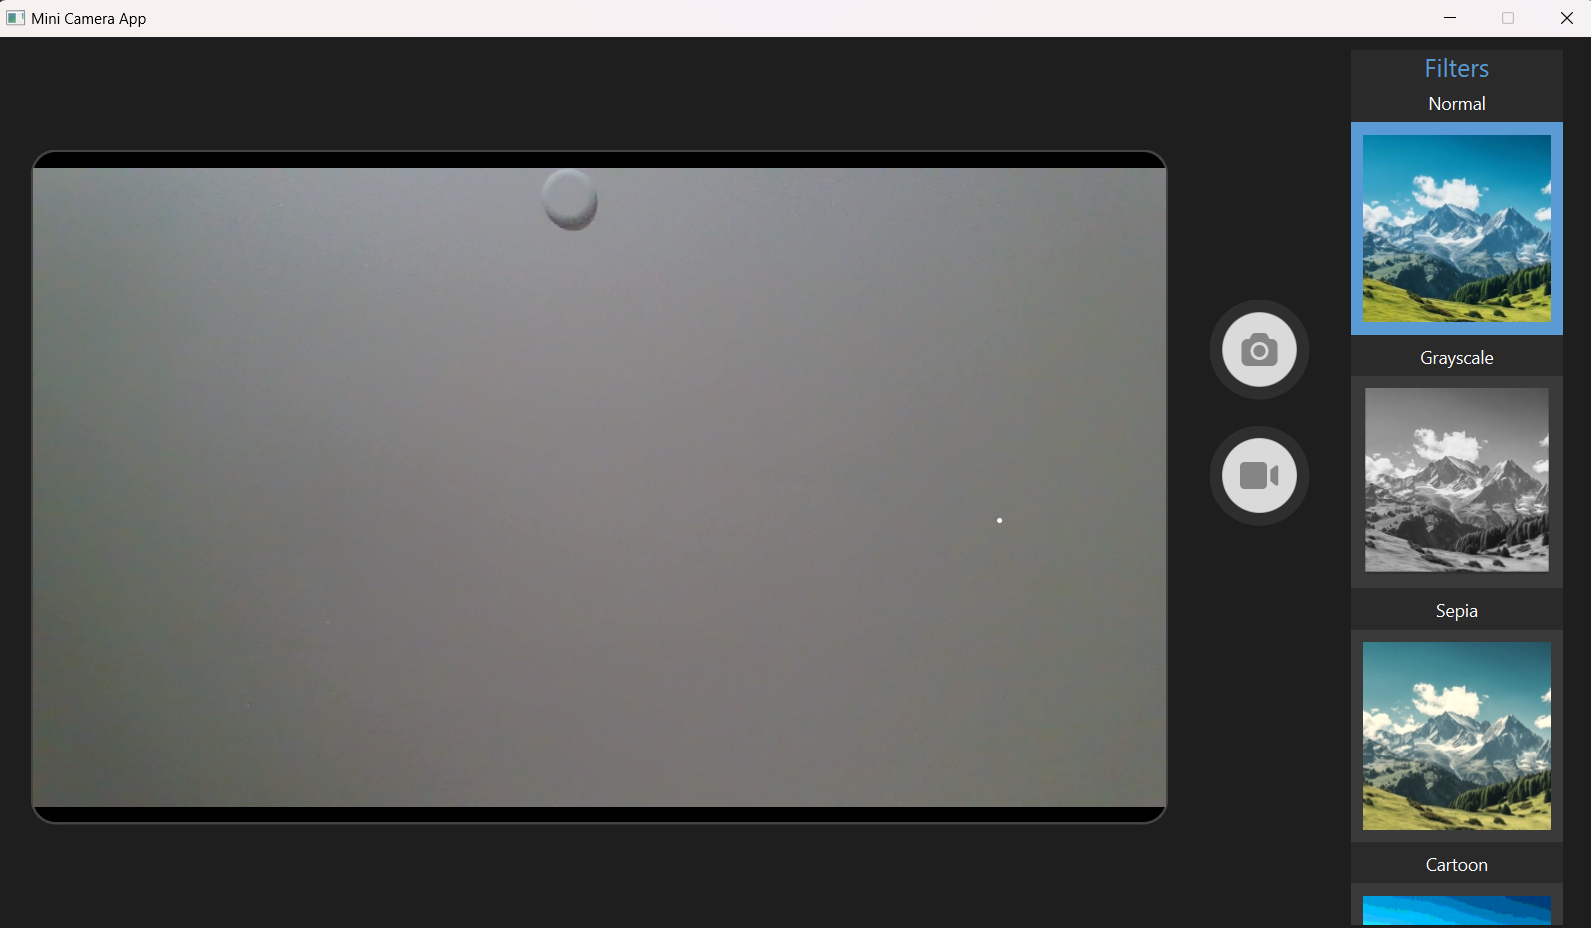
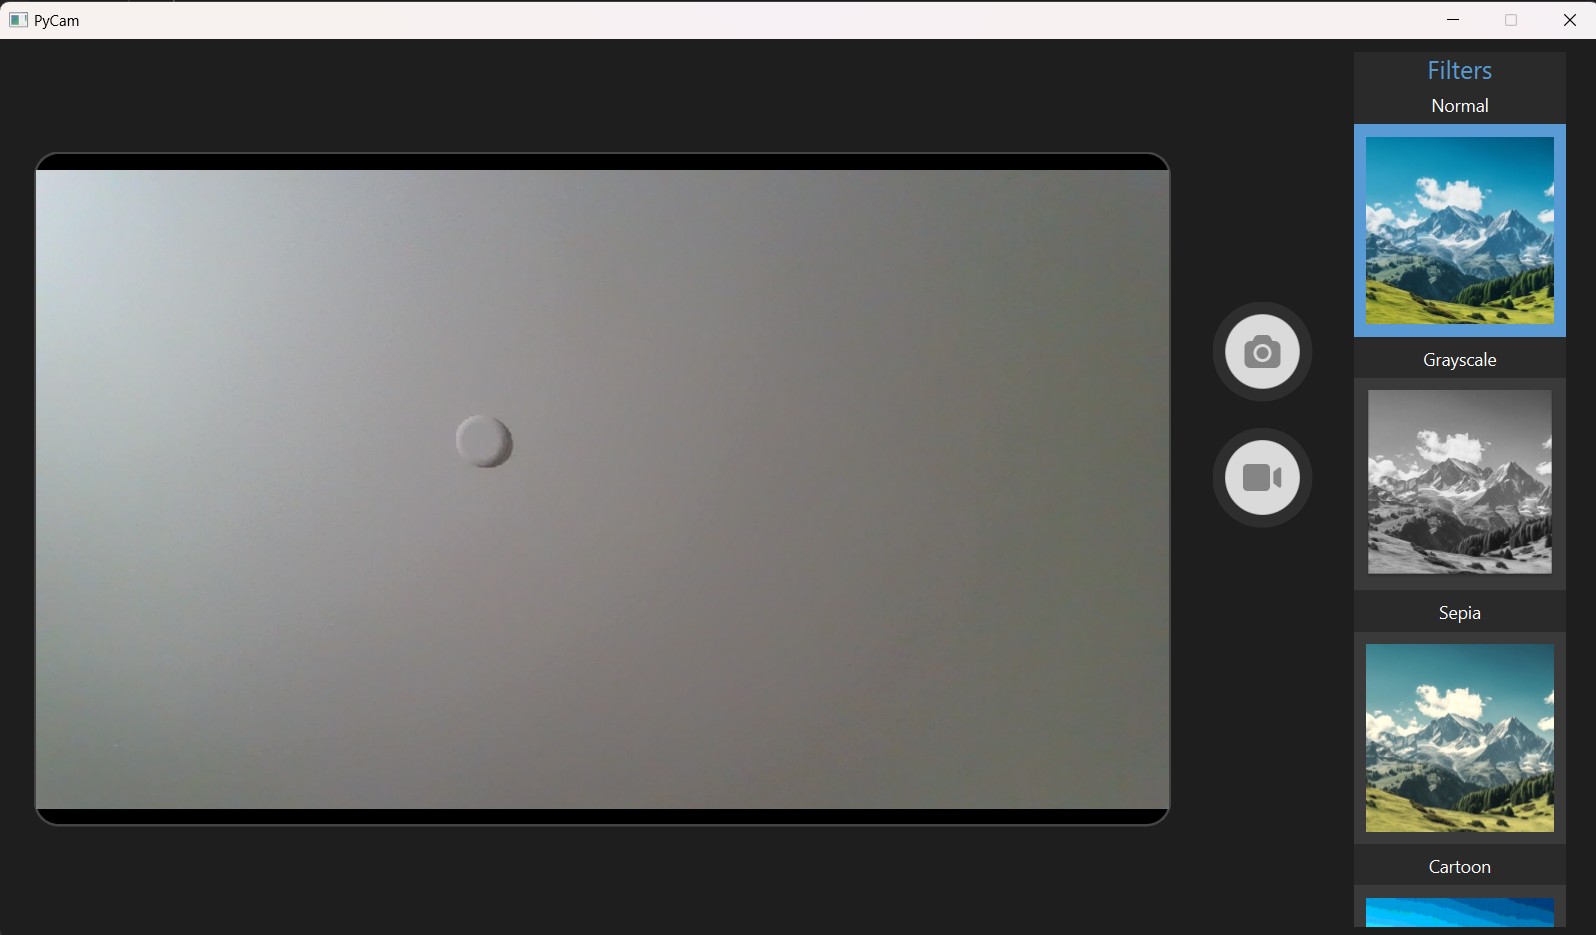
Name change to pycam

diff --git a/CameraApp.py b/CameraApp.py
@@ -6,7 +6,6 @@ import numpy as np
 import sounddevice as sd
 import soundfile as sf
 import threading
-import moviepy.audio.io.AudioFileClip as AudioFileClip
 import imageio_ffmpeg as ffmpeg
 import subprocess
 from PyQt6.QtWidgets import QApplication, QPushButton, QLabel,QHBoxLayout, QVBoxLayout, QWidget, QMessageBox, QScrollArea
@@ -17,7 +16,7 @@ class Camera_App(QWidget): #Inherits basic GUI window
     def __init__(self):
         super().__init__()
         #window setting
-        self.setWindowTitle("Mini Camera App")
+        self.setWindowTitle("PyCam")
         self.setStyleSheet("background-color: #1e1e1e; color: white")
         self.setFixedSize(1280,720)
         
